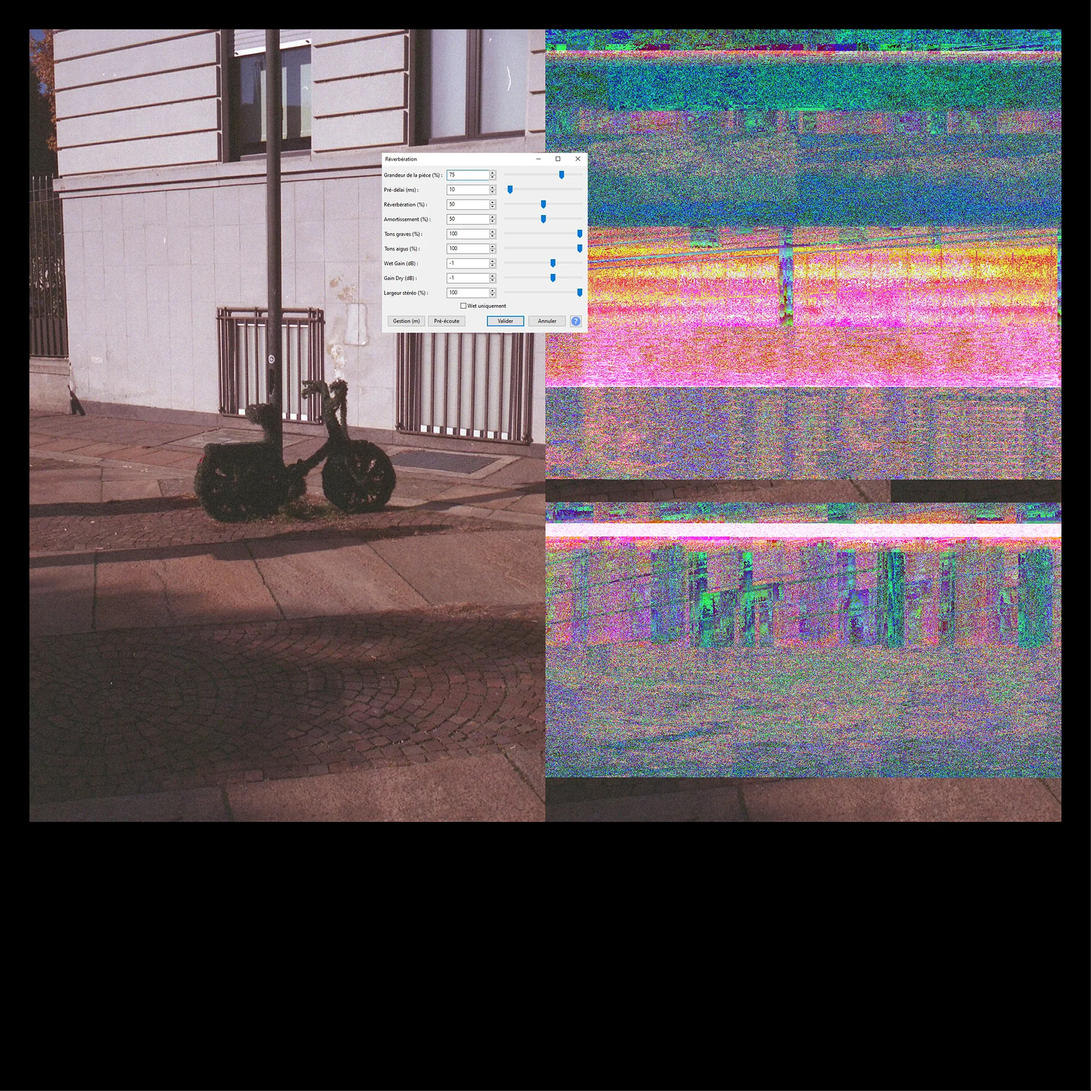
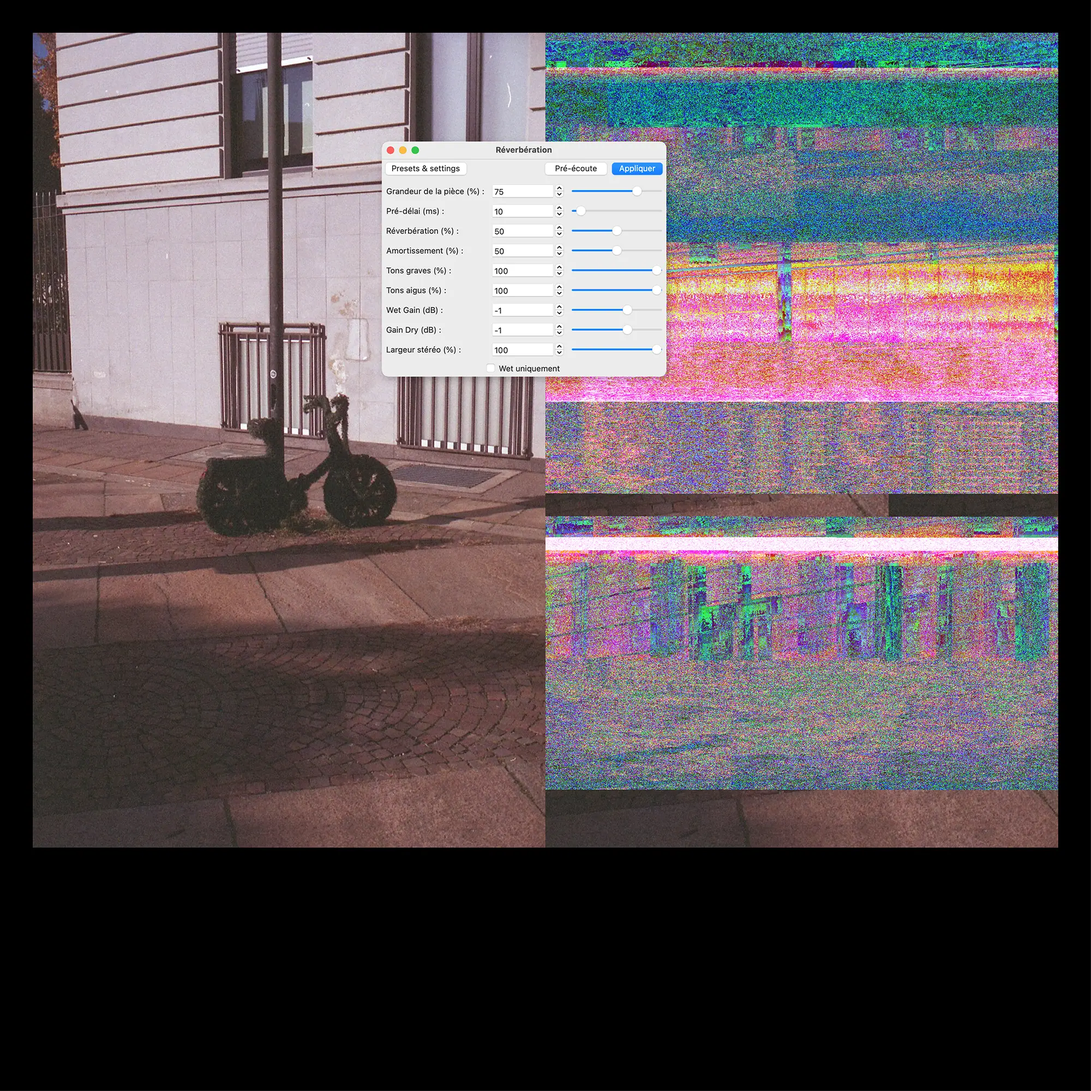
15-09-26 reglages avant envoie mail!

diff --git a/a-propos.html b/a-propos.html
@@ -44,7 +44,7 @@
         <section class="text-a-propos">
           <p>Designer graphique junior, basé à Grenoble. Je travaille dans les champs du design graphique, éditorial, digital et typographique.</p>
           <p class="alinea">Mes différentes expériences au sein de la <a class="link" href="https://www.deux-ponts.fr/" target="_blank">Manufacture d&rsquo;Imprimerie Deux-Ponts</a> sont venues cultiver depuis le début de mes études, un réel intérêt pour l&rsquo;objet imprimé. L&rsquo;acquisition d&rsquo;un bagage de connaissances complet autour des procédés de fabrication et techniques d&rsquo;impression me permet d&rsquo;être conscient du champ des possibles.</p>
-          <p class="alinea">Ma pratique est régie par une part expérimentale forte. Dans l&rsquo;idée de venir chercher des résultats inattendus et laisser une place plus importante à l&rsquo;accident, j&rsquo;apprécie passer du temps à explorer une variété de techniques et ne pas hésiter à réitérer certains schémas pour provoquer L&rsquo;heureux hasard&#8239;!</p>
+          <p class="alinea">Ma pratique est régie par une part expérimentale forte. Dans l&rsquo;idée de venir chercher des résultats inattendus et de laisser une place plus importante à l&rsquo;accident, j&rsquo;apprécie passer du temps à explorer une variété de techniques et ne pas hésiter à réitérer certains schémas pour provoquer L&rsquo;heureux hasard&#8239;!</p>
           <div class="contact">
             <p>N&rsquo;hésitez pas à me contacter pour toute question, information ou collaboration !</p>
           </div>

diff --git a/ppo.html b/ppo.html
@@ -79,7 +79,9 @@
           <h1 class="title">La Journée des jeunes lecteurs</h1>
           <p class="type">Identité visuelle, 2025</p>
           <p class="nature">Projet d&rsquo;école (fictif)</p>
-          <p class="brief">Projet de diplôme autour du rapport à la lecture chez les jeunes lecteurs. Comment (re)donner le goût de la lecture aux jeunes dans un contexte où les pratiques culturelles se tournent de plus en plus vers les écrans et le numérique ? Le <a class="link" href="https://www.instagram.com/printempsdulivredegrenoble/" target="_blank">Printemps du Livre de Grenoble</a> propose une journée dédiée à la lecture pour sensibiliser et motiver les jeunes à lire en leur proposant une expérience collective, interactive et agréable autour de la lecture.</p>
+          <p class="brief">
+            Projet de diplôme autour du rapport à la lecture chez les jeunes lecteurs. Comment (re)donner le goût de la lecture aux jeunes dans un contexte où les pratiques culturelles se tournent de plus en plus vers les écrans et le numérique ? Le <a class="link" href="https://www.instagram.com/printempsdulivredegrenoble/" target="_blank">Printemps du Livre de Grenoble</a> propose une journée dédiée à la lecture pour sensibiliser et motiver les jeunes à lire en leur proposant une expérience collective, interactive et agréable autour de la lecture. Conception et réalisation d&rsquo;une scénographie éphémère.
+          </p>
         </div>
       </div>
       <div class="footer-container">

diff --git a/archives.html b/archives.html
@@ -58,6 +58,9 @@
           <img src="pictures/archives/mep.webp" loading="lazy">
         </figure>
         <figure class="picture">
+          <img src="pictures/archives/neyron.webp" loading="lazy">
+        </figure>
+        <figure class="picture">
           <img src="pictures/archives/wood-print.webp" loading="lazy">
         </figure>
         <figure class="picture">
